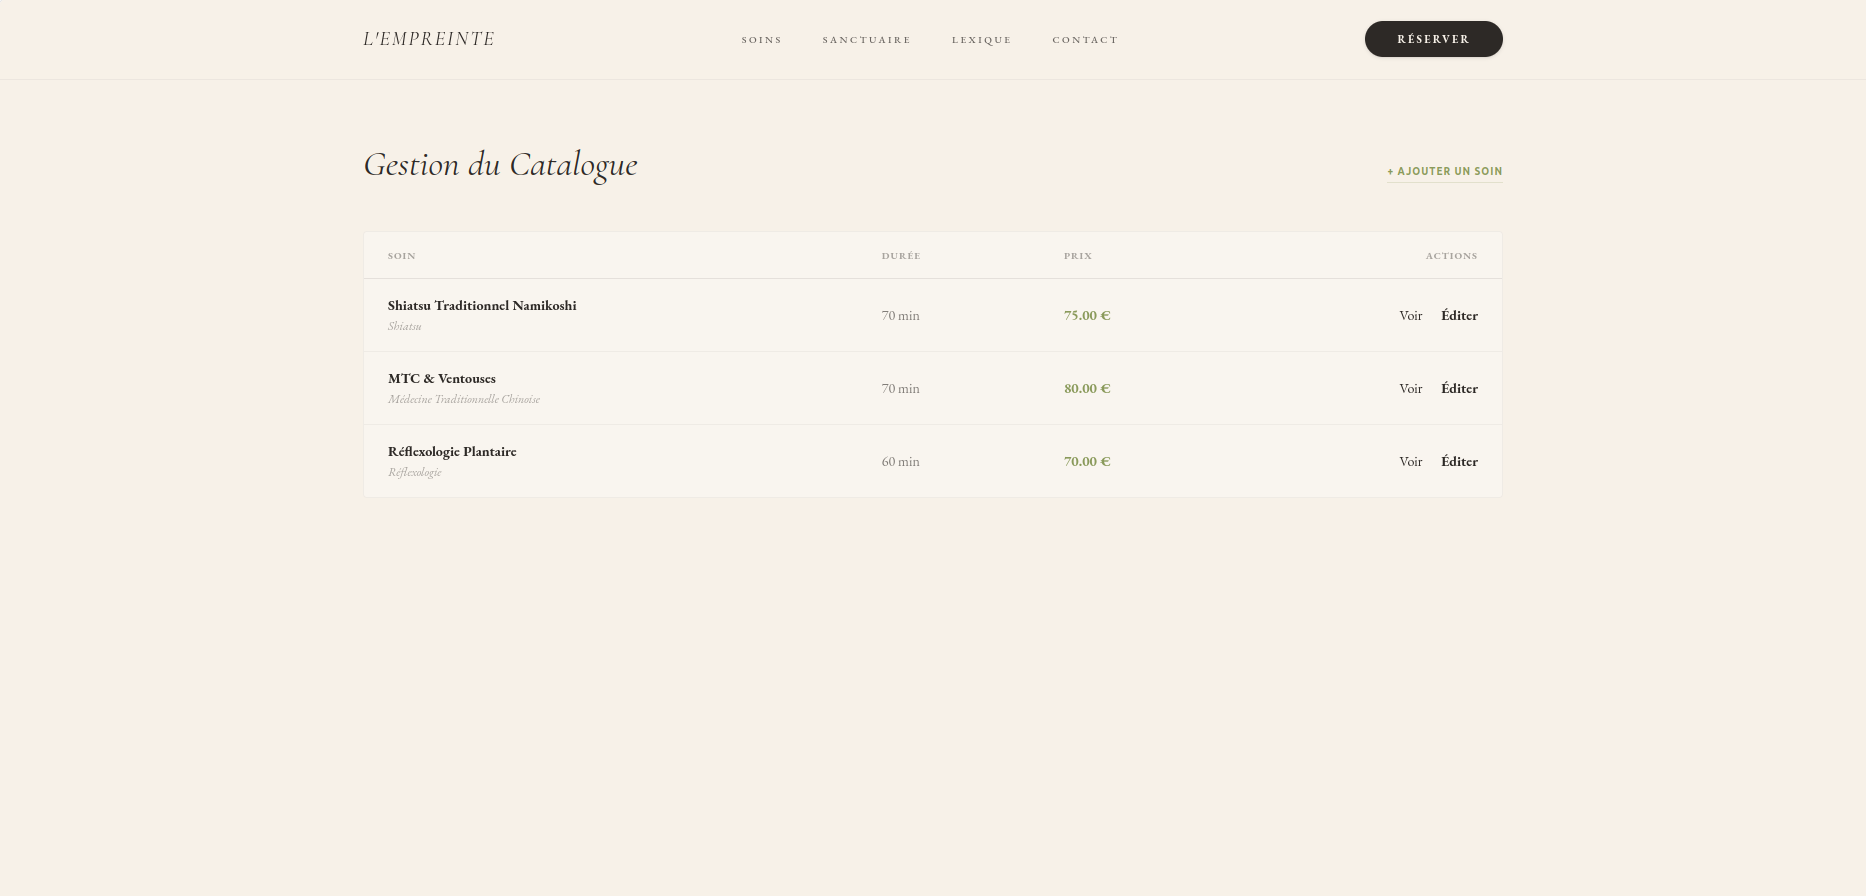
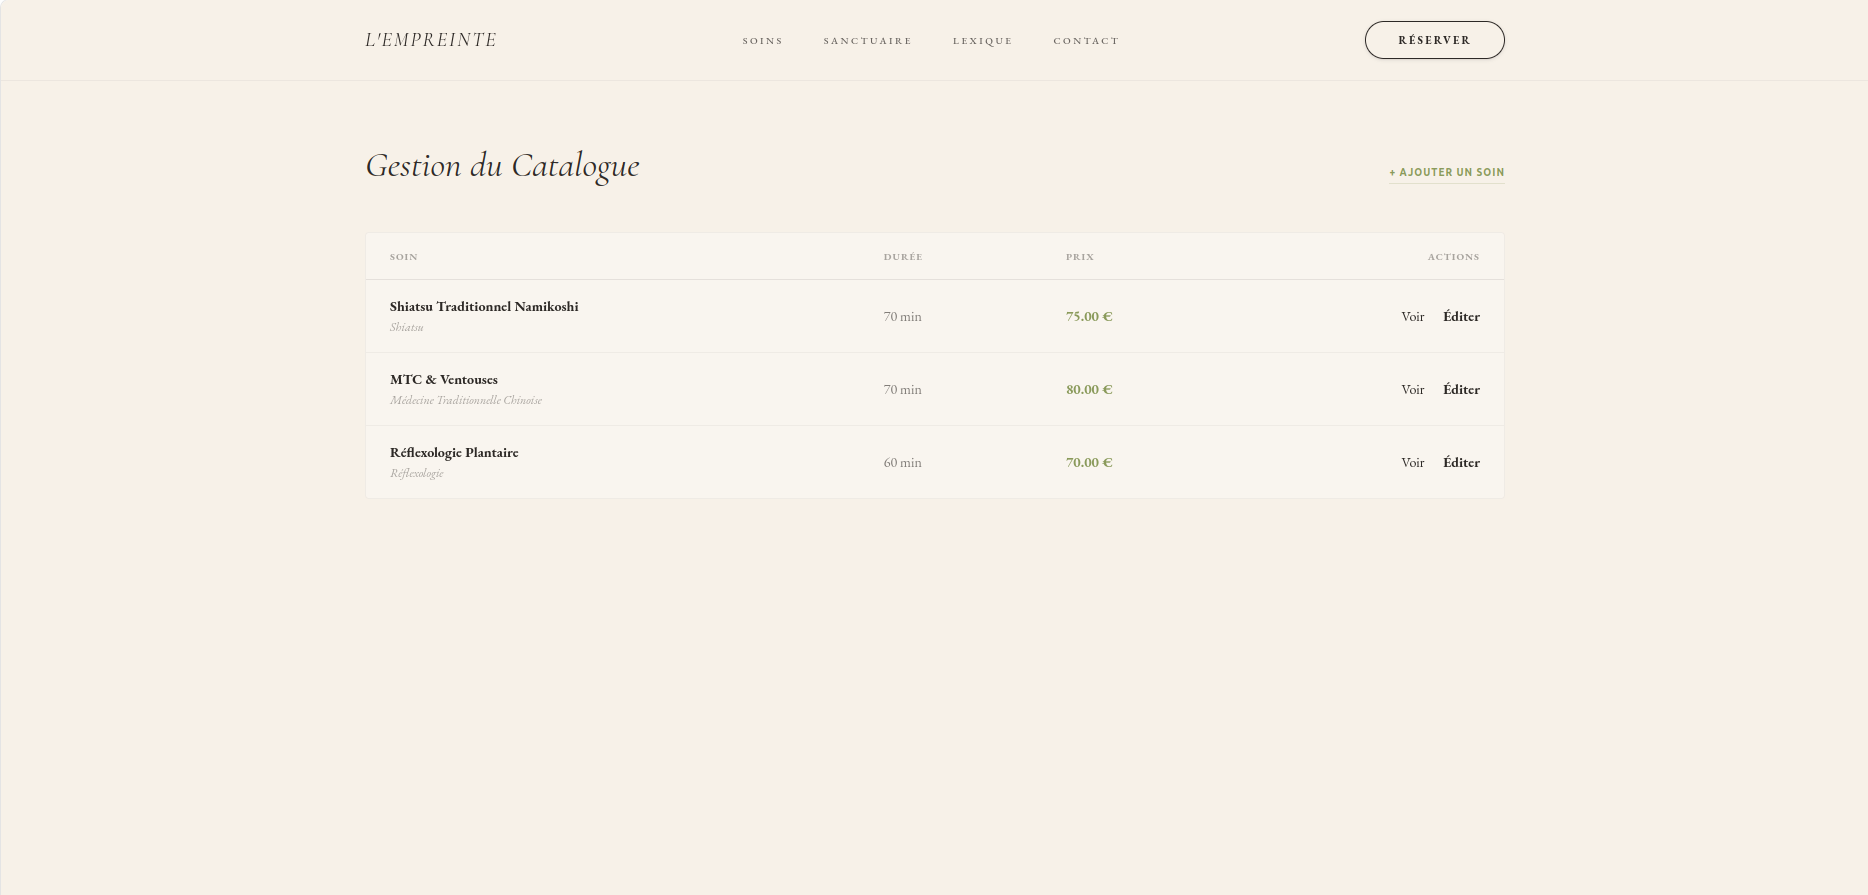
Fix: Finalisation de l'entité User et sécurisation du rendu des noms

diff --git a/src/EventSubscriber/AccessDeniedSubscriber.php b/src/EventSubscriber/AccessDeniedSubscriber.php
@@ -1,0 +1,41 @@
+<?php
+
+namespace App\EventSubscriber;
+
+use Symfony\Component\EventDispatcher\EventSubscriberInterface;
+use Symfony\Component\HttpFoundation\RedirectResponse;
+use Symfony\Component\HttpKernel\Event\ExceptionEvent;
+use Symfony\Component\HttpKernel\KernelEvents;
+use Symfony\Component\Security\Core\Exception\AccessDeniedException;
+use Symfony\Component\HttpKernel\Exception\AccessDeniedHttpException;
+use Symfony\Component\Routing\Generator\UrlGeneratorInterface;
+use Symfony\Component\HttpFoundation\RequestStack;
+
+class AccessDeniedSubscriber implements EventSubscriberInterface
+{
+    public function __construct(
+        private UrlGeneratorInterface $urlGenerator,
+        private RequestStack $requestStack
+    ) {}
+
+    public static function getSubscribedEvents(): array
+    {
+        return [
+            KernelEvents::EXCEPTION => ['onKernelException', 255],
+        ];
+    }
+
+    public function onKernelException(ExceptionEvent $event): void
+    {
+        $exception = $event->getThrowable();
+
+        if ($exception instanceof AccessDeniedException || $exception instanceof AccessDeniedHttpException) {
+            $this->requestStack->getSession()->getFlashBag()->add(
+                'error', 
+                'Votre accès est limité à votre espace personnel.'
+            );
+
+            $event->setResponse(new RedirectResponse($this->urlGenerator->generate('app_home')));
+        }
+    }
+}

diff --git a/src/Form/LexiconType.php b/src/Form/LexiconType.php
@@ -14,20 +14,36 @@ class LexiconType extends AbstractType
     public function buildForm(FormBuilderInterface $builder, array $options): void
     {
         $builder
-            ->add('term')
-            ->add('slug')
-            ->add('definition')
-            ->add('author', EntityType::class, [
-                'class' => User::class,
-                'choice_label' => 'id',
+            ->add('term', null, [
+                'label' => 'Terme technique'
+            ])
+            ->add('slug', null, [
+                'label' => 'Identifiant URL (Slug)'
+            ])
+            ->add('definition', null, [
+                'label' => 'Définition'
+            ])
+            ->add('author', null, [
+                'label' => 'Auteur du texte',
+                'choice_label' => function ($user) {
+                    return $user->getFirstName() . ' ' . $user->getLastName();
+                }
             ])
         ;
     }
-
     public function configureOptions(OptionsResolver $resolver): void
     {
         $resolver->setDefaults([
             'data_class' => Lexicon::class,
         ]);
     }
+
+    public function __toString(): string
+{
+    // Si le prénom ou le nom sont vides, on affiche l'email par défaut
+    // On utilise trim() pour enlever l'espace inutile si les champs sont vides
+    $fullName = trim(($this->firstName ?? '') . ' ' . ($this->lastName ?? ''));
+
+    return $fullName !== '' ? $fullName : ($this->email ?? 'Utilisateur sans nom');
+}
 }

diff --git a/config/reference.php b/config/reference.php
@@ -1285,9 +1285,9 @@ use Symfony\Component\Config\Loader\ParamConfigurator as Param;
  *             lifetime?: int|Param, // Default: 31536000
  *             path?: scalar|Param|null, // Default: "/"
  *             domain?: scalar|Param|null, // Default: null
- *             secure?: true|false|"auto"|Param, // Default: false
+ *             secure?: true|false|"auto"|Param, // Default: null
  *             httponly?: bool|Param, // Default: true
- *             samesite?: null|"lax"|"strict"|"none"|Param, // Default: null
+ *             samesite?: null|"lax"|"strict"|"none"|Param, // Default: "lax"
  *             always_remember_me?: bool|Param, // Default: false
  *             remember_me_parameter?: scalar|Param|null, // Default: "_remember_me"
  *         },

diff --git a/src/Entity/User.php b/src/Entity/User.php
@@ -108,4 +108,6 @@ class User implements UserInterface, PasswordAuthenticatedUserInterface
 
     public function getWallet(): ?string { return $this->wallet; }
     public function setWallet(string $wallet): static { $this->wallet = $wallet; return $this; }
+
+    
 }